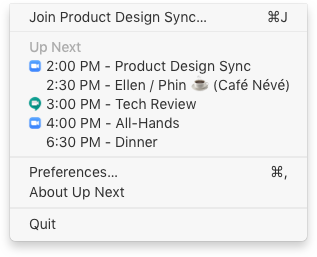
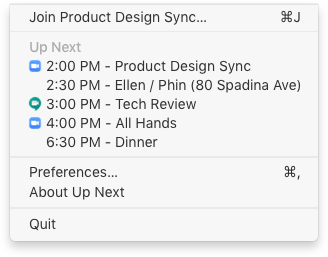
update dropdown

diff --git a/up-next/style.css b/up-next/style.css
@@ -174,8 +174,8 @@ main {
 #dropdown {
   position: absolute;
   top: 18px;
-  right: 238px;
-  width: 317px;
+  right: 227px;
+  width: 328px;
   height: 257px;
   background-image: url(./assets/event-dropdown@2x.png);
   background-size: contain;
